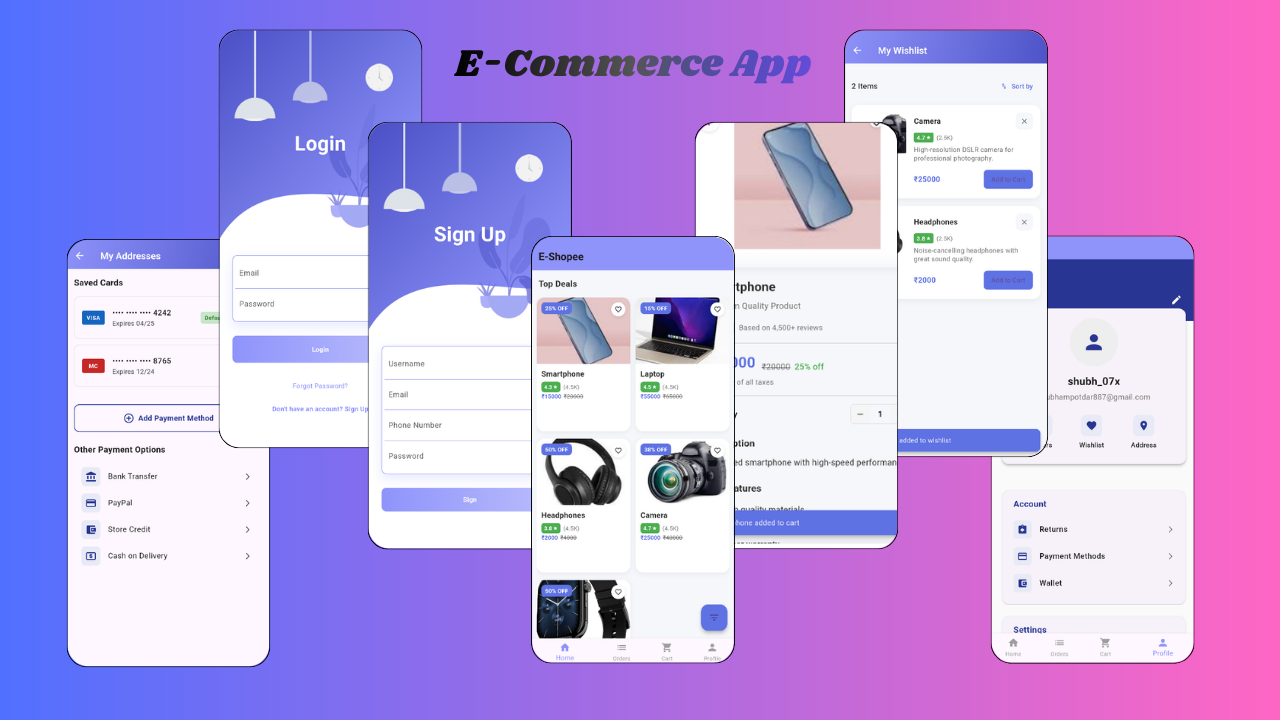
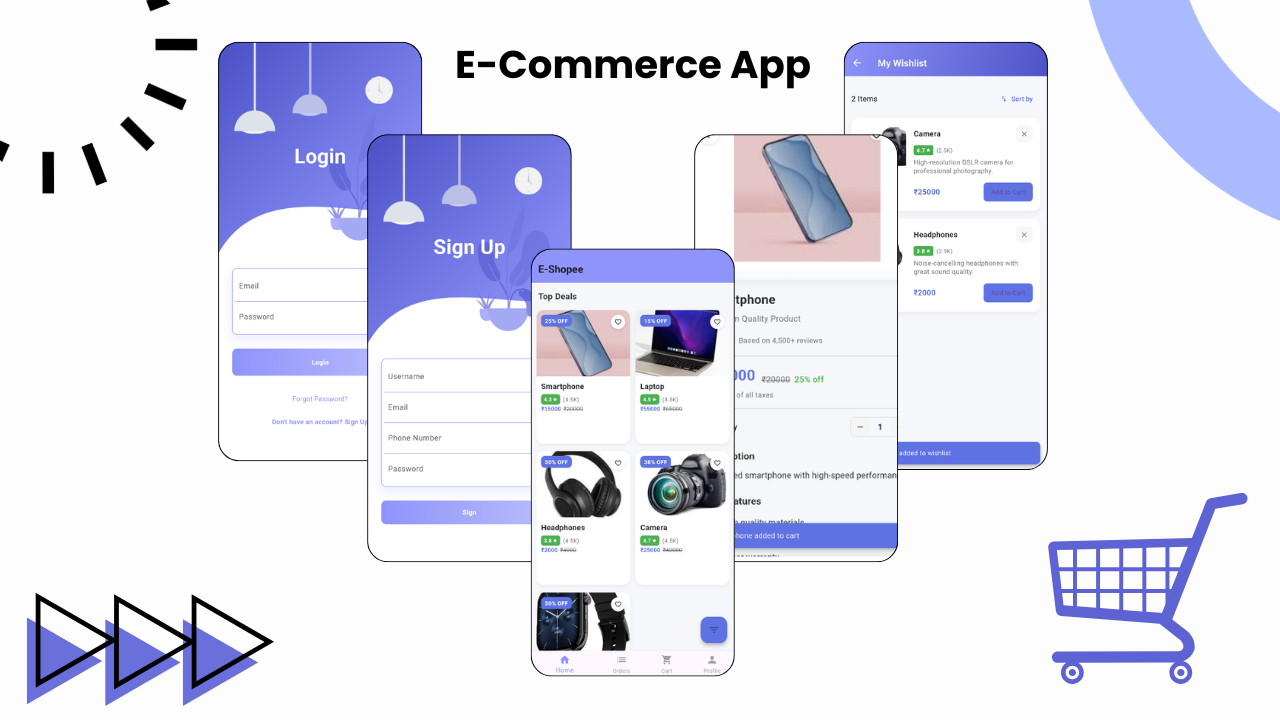
feat: update projects section with Recruiter and To-Do apps

diff --git a/src/components/Projects.jsx b/src/components/Projects.jsx
@@ -1,6 +1,9 @@
 import React, { useState } from 'react';
 import DetailModal from './DetailModal';
 import ecommerceImg from '../Images/E-Commerce App.png';
+import assistiveSysImg from '../Images/dd.jpg';
+import recruiterImg from '../Images/Recruiter App.png';
+import todoImg from '../Images/WorkFlow - App.png';
 
 const Projects = () => {
     const [selectedProject, setSelectedProject] = useState(null);
@@ -15,7 +18,8 @@ const Projects = () => {
             fullDescription: 'Integrated Google’s Firebase backend services for secure Authentication (login/signup), real-time data handling with Firestore (products, orders), and user profile management.',
             stack: ['Flutter', 'Dart', 'Firebase'],
             metric: 'CROSS-PLATFORM',
-            image: ecommerceImg
+            image: ecommerceImg,
+            github: 'https://github.com'
         },
         {
             id: '02',
@@ -26,51 +30,32 @@ const Projects = () => {
             fullDescription: 'Integrated features like currency detection, weather updates, and voice commands for hands-free interaction. Deployed on NVIDIA Jetson Xavier NX with GPU acceleration, achieving 90% accuracy in real-time scene analysis and audio feedback.',
             stack: ['Python', 'NVIDIA Jetson', 'PyCharm'],
             metric: '90% ACCURACY',
-            image: 'https://images.unsplash.com/photo-1677442136019-21780ecad995?w=800&h=600&fit=crop'
+            image: assistiveSysImg,
+            github: 'https://github.com'
         },
         {
             id: '03',
-            category: 'IOT & MOBILE APP',
-            title: 'Smart City Parking',
-            year: '2023',
-            description: 'Award-winning smart parking solution with IoT sensors, QR-based verification, and real-time availability tracking.',
-            fullDescription: 'Won 1st prize in hackathon for developing innovative smart parking solution that digitizes urban parking infrastructure. Built Flutter-based cross-platform mobile application for real-time parking spot discovery and reservation. Implemented QR code-based verification system for contactless check-in and check-out. Integrated IoT sensors with Firebase Cloud Functions for automated occupancy detection and real-time updates. Developed admin web dashboard using React for parking management and analytics. Reduced average parking search time by 60% in pilot deployment. Implemented payment gateway integration for seamless transactions.',
-            stack: ['Flutter', 'Firebase', 'IoT Sensors'],
-            metric: '1st PRIZE',
-            image: 'https://images.unsplash.com/photo-1506521781263-d8422e82f27a?w=800&h=600&fit=crop'
+            category: 'MOBILE ENGINEERING',
+            title: 'Recruiter Mobile App',
+            year: '2024',
+            description: 'A dedicated recruiter application for posting internships, assessing candidate profiles, and real-time communication.',
+            fullDescription: 'Developed a recruiter-centric mobile application using Flutter and Firebase. The app enables recruiters to post jobs and internships, review and assessment candidate profiles with detailed skill breakdowns, and engage in real-time chat with potential hires. Implemented efficient state management using Provider for a smooth user experience.',
+            stack: ['Flutter', 'Firebase', 'Dart', 'Provider'],
+            metric: 'STATE MGMT',
+            image: recruiterImg,
+            github: 'https://github.com/DeepaKumawat89/ARMII_Recruiter_app'
         },
         {
             id: '04',
-            category: 'UI/UX DESIGN',
-            title: 'Modern Portfolio V1',
-            year: '2023',
-            description: 'Minimalist architectural portfolio design focusing on smooth animations and technical precision.',
-            fullDescription: 'Designed and developed a personal portfolio using React and Tailwind CSS, following a technical/architectural aesthetic. Implemented custom glassmorphism components and fluid background animations. Optimized for mobile responsiveness and SEO best practices.',
-            stack: ['React', 'Tailwind', 'Framer Motion'],
-            metric: 'TECHNICAL UI',
-            image: 'https://images.unsplash.com/photo-1507238691740-187a5b1d37b8?w=800&h=600&fit=crop'
-        },
-        {
-            id: '05',
-            category: 'BACKEND SYSTEMS',
-            title: 'API Gateway Service',
-            year: '2024',
-            description: 'Microservices gateway with rate limiting, logging, and automated documentation.',
-            fullDescription: 'Built a robust API Gateway using Node.js and Express to manage microservices communication. Implemented Redis-based rate limiting and Winston logging for monitoring. Automated API documentation using Swagger UI.',
-            stack: ['Node.js', 'Redis', 'Express'],
-            metric: '<10ms OVERHEAD',
-            image: 'https://images.unsplash.com/photo-1558494949-ef010cbdcc31?w=800&h=600&fit=crop'
-        },
-        {
-            id: '06',
-            category: 'MOBILE ENGINEERING',
-            title: 'Inventory Sync App',
-            year: '2023',
-            description: 'Enterprise-grade offline-first mobile app for real-time inventory synchronization.',
-            fullDescription: 'Developed an offline-first mobile application using Flutter and SQLite. Implemented background sync workers and conflict resolution logic for multi-user inventory management.',
-            stack: ['Flutter', 'SQLite', 'Riverpod'],
-            metric: 'OFFLINE-FIRST',
-            image: 'https://images.unsplash.com/photo-1586769852836-bc069f19e1b6?w=800&h=600&fit=crop'
+            category: 'UTILITY APP',
+            title: 'To-Do App',
+            year: 'Oct 2024',
+            description: 'A feature-rich To-Do application built with Flutter for efficient task management and organization.',
+            fullDescription: 'Developed a clean and intuitive To-Do application using Flutter. Features include task categorization, priority levels, and persistent storage using SQLite. Designed with a focus on productivity and smooth user interactions across mobile platforms.',
+            stack: ['Flutter', 'Dart', 'SQLite'],
+            metric: 'OFFLINE PRODUCTIVITY',
+            image: todoImg,
+            github: 'https://github.com/DeepaKumawat89/To_do_App'
         }
     ];
 

diff --git a/src/components/DetailModal.jsx b/src/components/DetailModal.jsx
@@ -87,10 +87,26 @@ const DetailModal = ({ isOpen, onClose, data, type }) => {
                                 </div>
                             )}
 
-                            {/* Metric Badge */}
-                            <div className="inline-flex items-center gap-3 bg-pista-dark/10 px-6 py-3 rounded-full border-2 border-pista-dark/20">
-                                <div className="text-xs font-black text-pista-dark/40 uppercase tracking-widest">Metric</div>
-                                <div className="text-xl font-black text-text tracking-tighter">{data.metric}</div>
+                            {/* Metric Badge & GitHub Link */}
+                            <div className="flex flex-wrap items-center gap-4">
+                                <div className="inline-flex items-center gap-3 bg-pista-dark/10 px-6 py-3 rounded-full border-2 border-pista-dark/20">
+                                    <div className="text-xs font-black text-pista-dark/40 uppercase tracking-widest">Metric</div>
+                                    <div className="text-xl font-black text-text tracking-tighter">{data.metric}</div>
+                                </div>
+
+                                {data.github && (
+                                    <a
+                                        href={data.github}
+                                        target="_blank"
+                                        rel="noopener noreferrer"
+                                        className="inline-flex items-center gap-2 bg-text text-white px-6 py-3 rounded-full border-2 border-text hover:bg-pista-dark hover:border-pista-dark transition-all duration-300 shadow-lg group/btn"
+                                    >
+                                        <span className="text-sm font-black uppercase tracking-widest">View Source</span>
+                                        <svg className="w-5 h-5 group-hover/btn:translate-x-1 transition-transform" fill="currentColor" viewBox="0 0 24 24">
+                                            <path d="M12 0c-6.626 0-12 5.373-12 12 0 5.302 3.438 9.8 8.207 11.387.599.111.793-.261.793-.577v-2.234c-3.338.726-4.033-1.416-4.033-1.416-.546-1.387-1.333-1.756-1.333-1.756-1.089-.745.083-.729.083-.729 1.205.084 1.839 1.237 1.839 1.237 1.07 1.834 2.807 1.304 3.492.997.107-.775.418-1.305.762-1.604-2.665-.305-5.467-1.334-5.467-5.931 0-1.311.469-2.381 1.236-3.221-.124-.303-.535-1.524.117-3.176 0 0 1.008-.322 3.301 1.23.957-.266 1.983-.399 3.003-.404 1.02.005 2.047.138 3.006.404 2.291-1.552 3.297-1.23 3.297-1.23.653 1.653.242 2.874.118 3.176.77.84 1.235 1.911 1.235 3.221 0 4.609-2.807 5.624-5.479 5.921.43.372.823 1.102.823 2.222v3.293c0 .319.192.694.801.576 4.765-1.589 8.199-6.086 8.199-11.386 0-6.627-5.373-12-12-12z" />
+                                        </svg>
+                                    </a>
+                                )}
                             </div>
                         </div>
 
